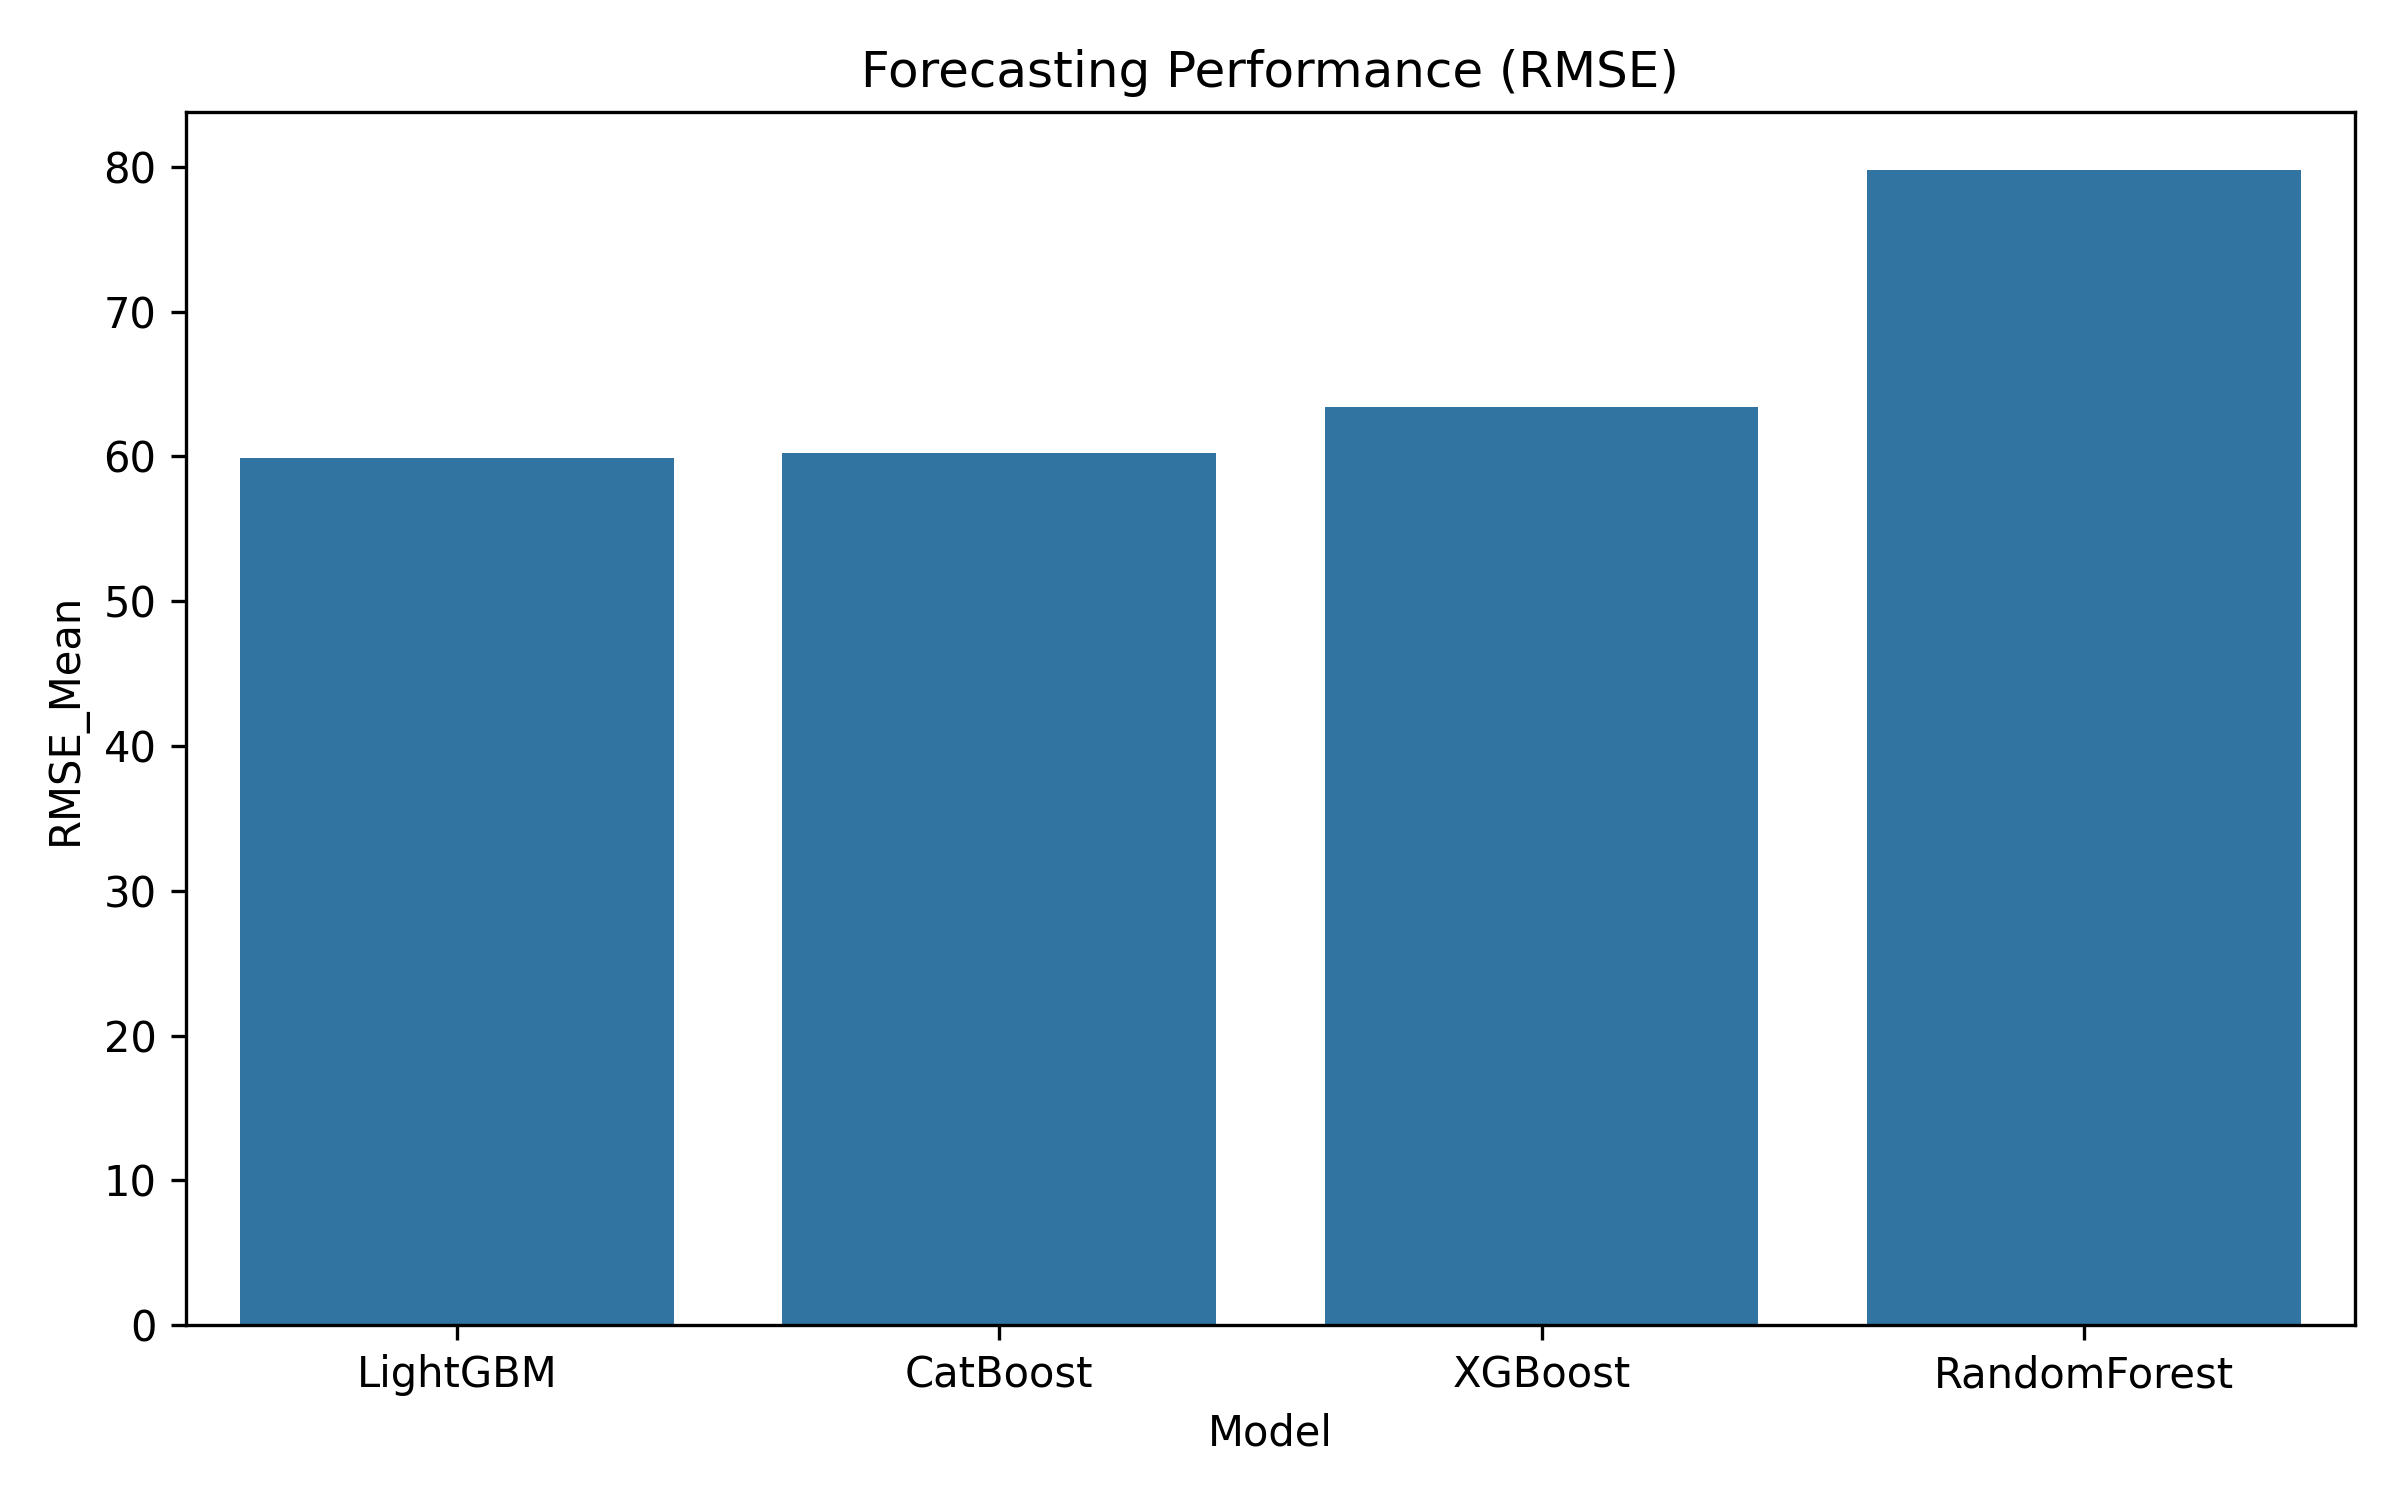
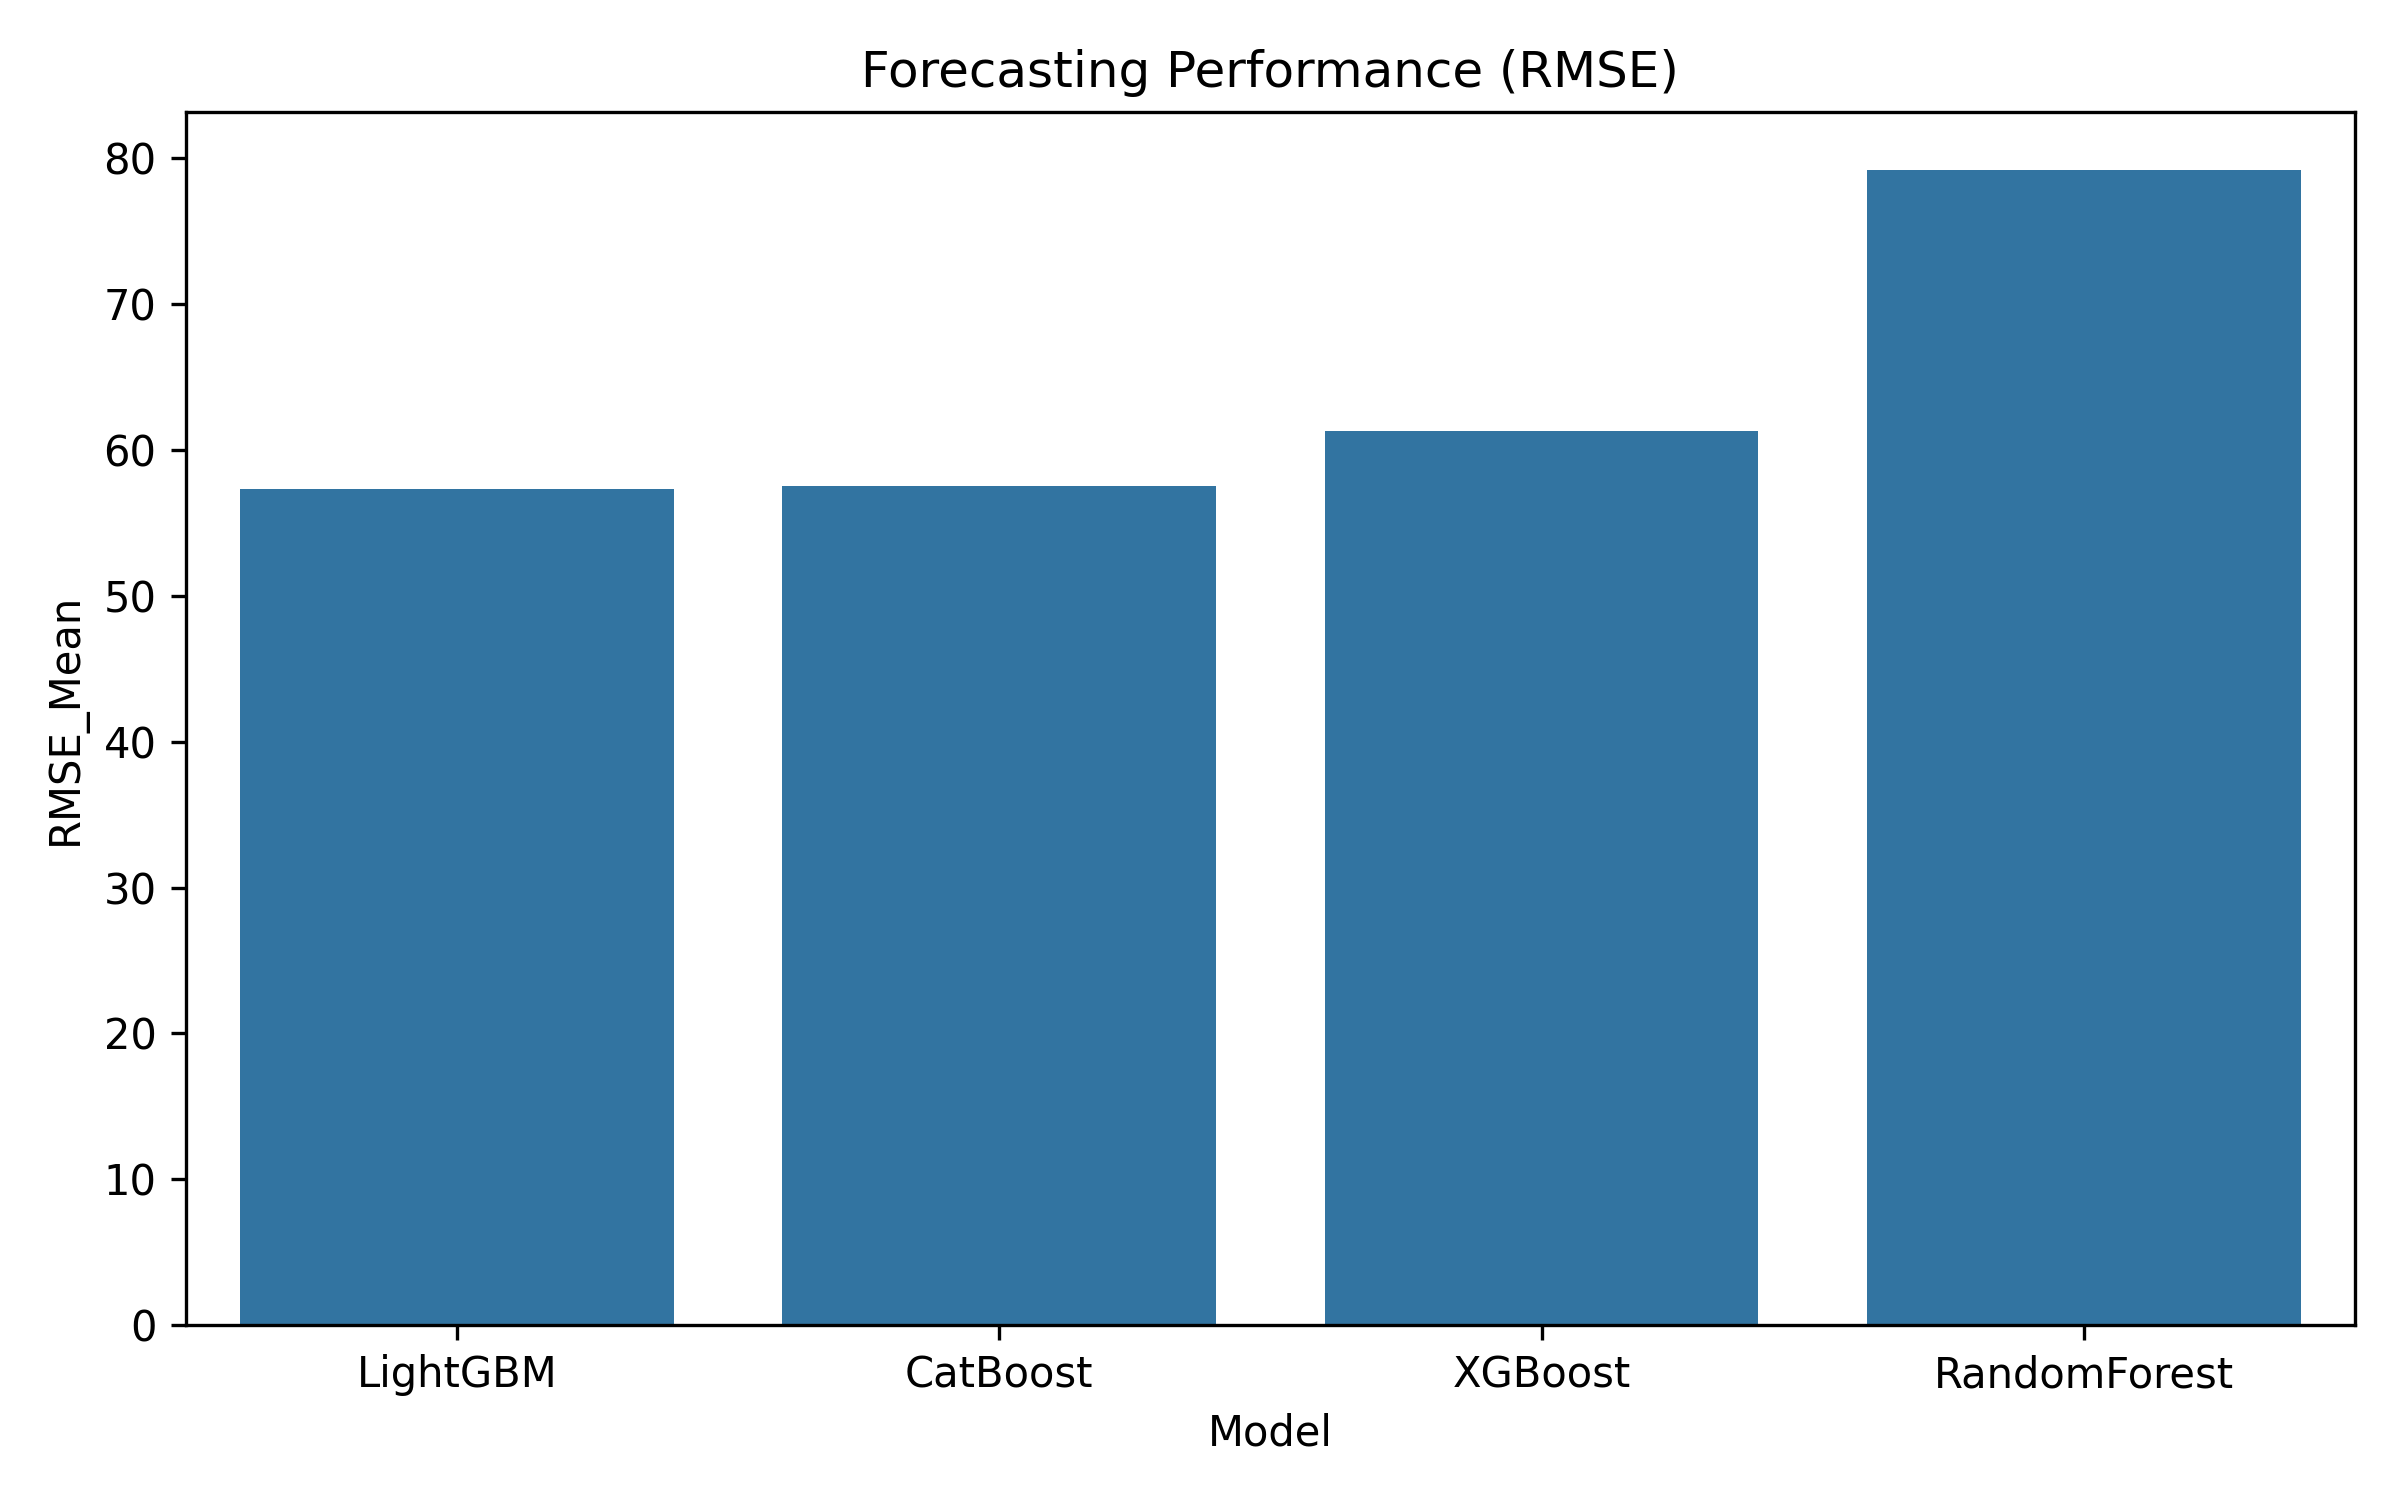
Add files via upload

diff --git a/benchmarks/COMPARISON/BENCHMARK_REPORT.md b/benchmarks/COMPARISON/BENCHMARK_REPORT.md
@@ -4,16 +4,16 @@
 ## Forecasting Ranking
 
        Model  MAE_Mean    MAE_SD  RMSE_Mean   RMSE_SD  R2_Mean    R2_SD  Rank
-    LightGBM 17.605912 10.650096  59.905905 31.663866 0.784342 0.044768     1
-    CatBoost 17.750890 10.712512  60.242034 32.071966 0.782020 0.048007     2
-     XGBoost 18.122181 11.659705  63.433657 36.297204 0.767532 0.036085     3
-RandomForest 21.029960 14.851787  79.803437 50.729208 0.644676 0.076555     4
+    LightGBM 16.489253 10.064913  57.311596 30.727665 0.800963 0.047870     1
+    CatBoost 16.629376 10.104170  57.528661 30.725602 0.799870 0.046748     2
+     XGBoost 17.066025 10.869317  61.296381 34.669864 0.778439 0.044638     3
+RandomForest 20.399808 14.514498  79.213970 51.691249 0.653533 0.079814     4
 
 ## Best Forecasting Model
 
 LightGBM
 
-R2 = 0.7843
+R2 = 0.8010
 
 ## Nowcasting vs Forecasting
 
@@ -23,21 +23,21 @@ R2 = 0.9869
 
 LightGBM Forecasting:
 
-R2 = 0.7843
+R2 = 0.8010
 
 Difference:
 
--0.2026
+-0.1860
 
 ## Friedman Test
 
 Statistic:
 
-12.8400
+13.5600
 
 p-value:
 
-0.004996
+0.003570
 
 ## Interpretation
 
